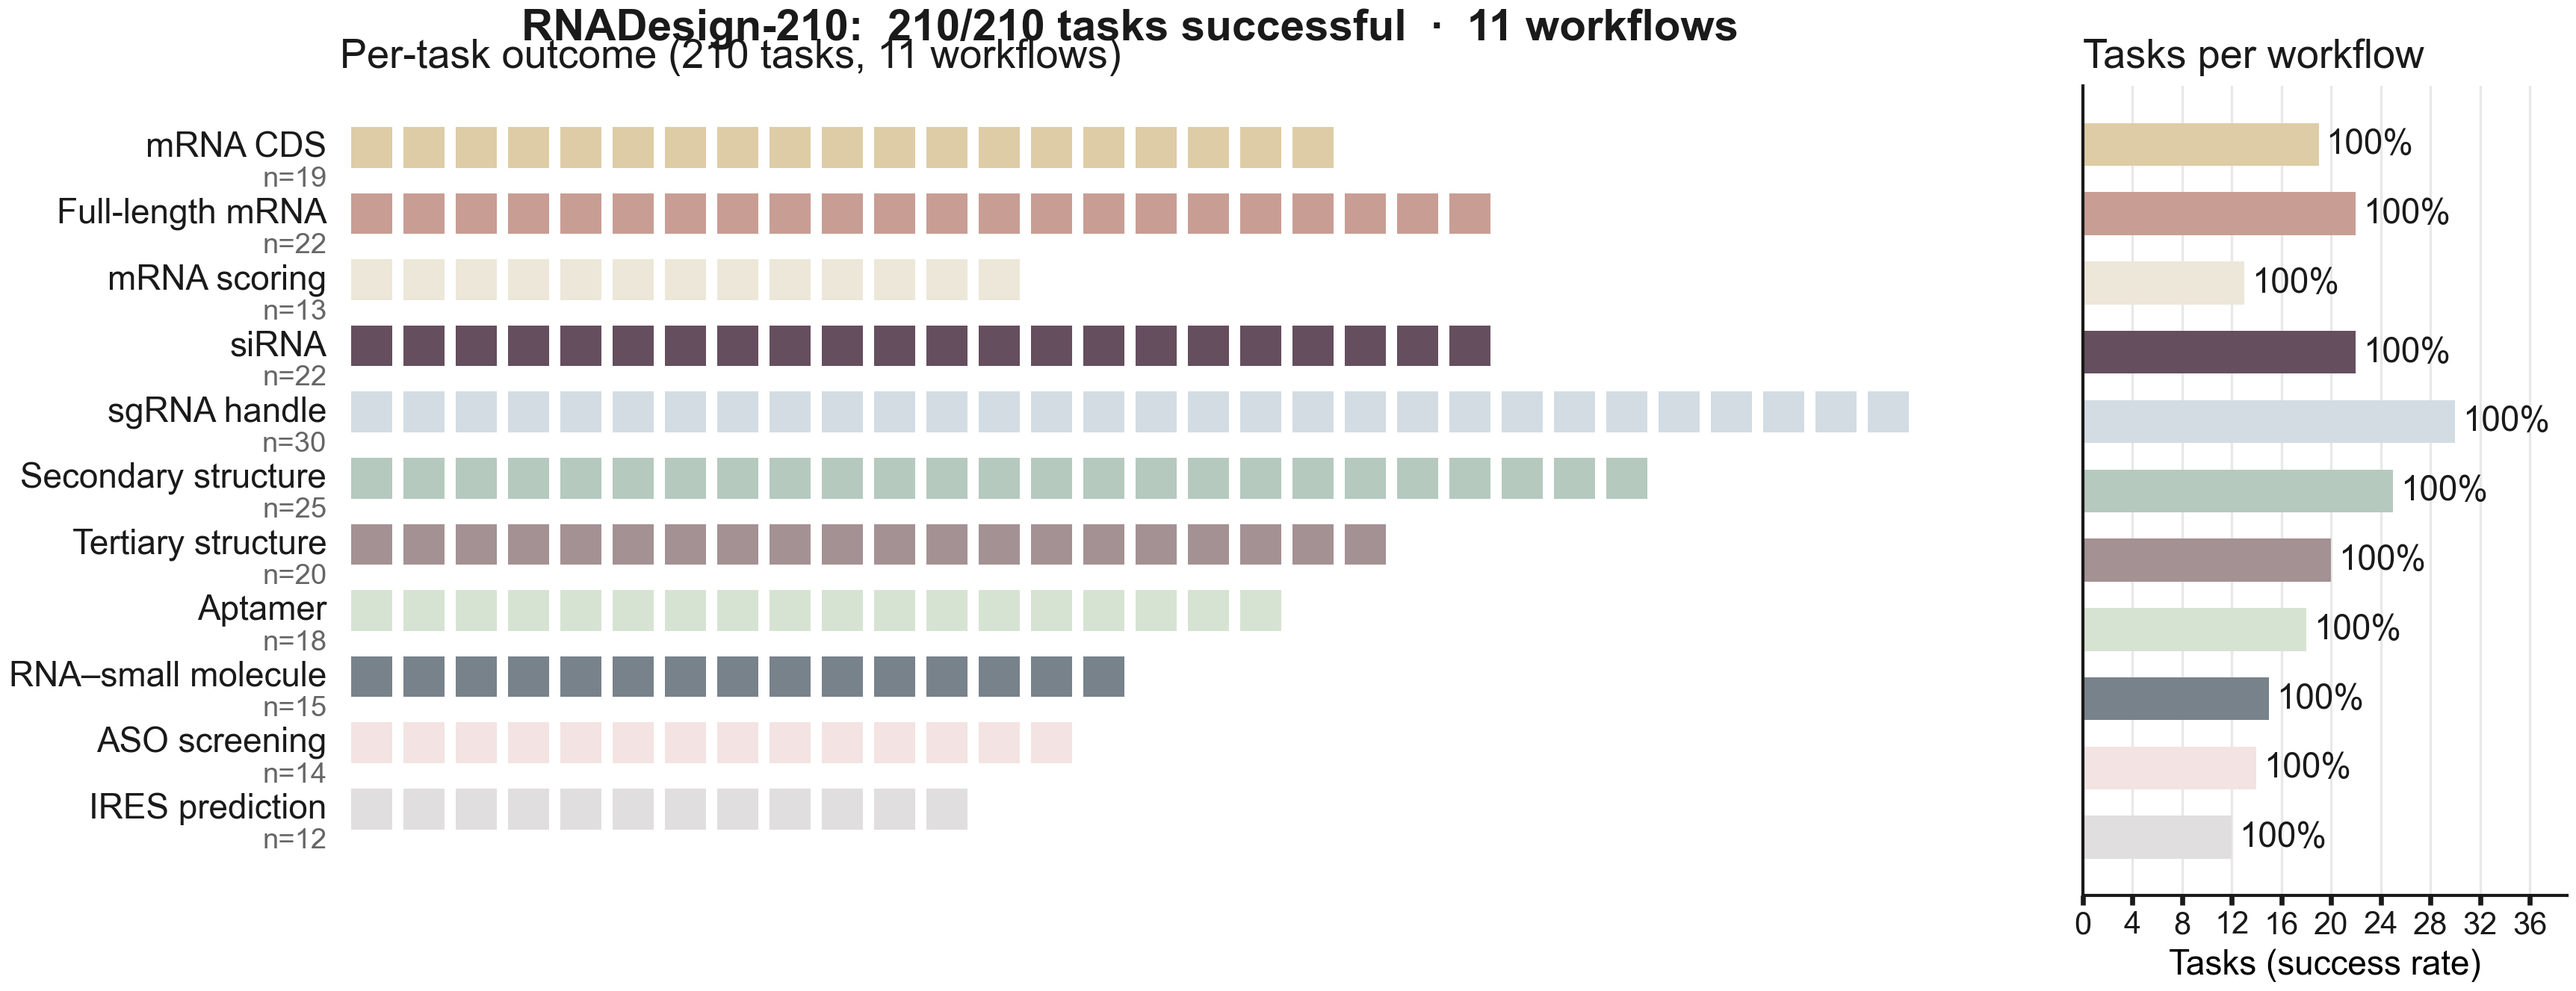
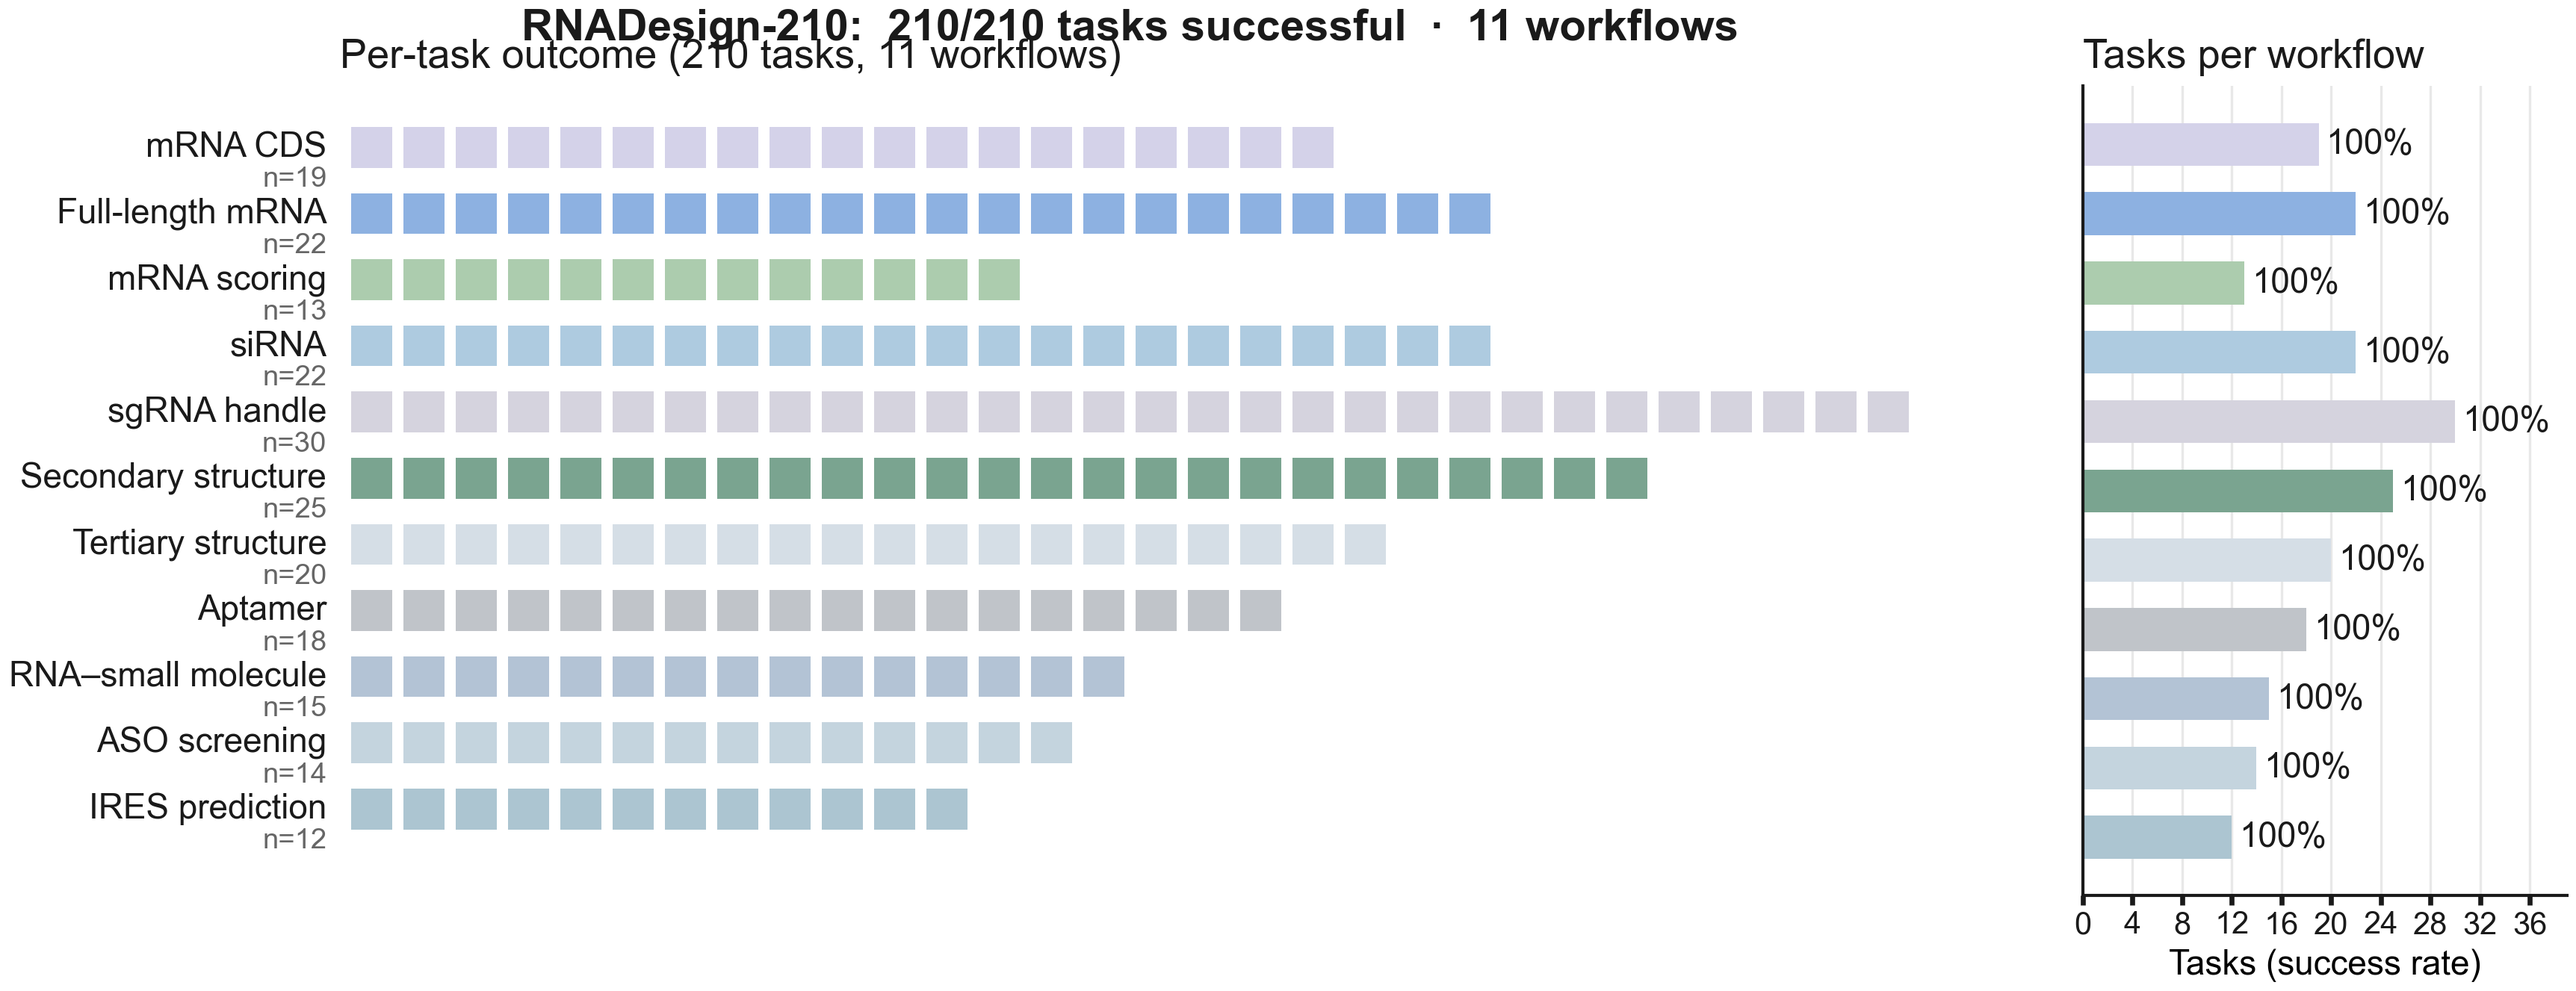
style(palette): unified figure palette rev 6 — user's cool pastel 12-colour set, Fig 2a re-rendered
Adopts the user's directly supplied cool pastel palette verbatim:
#d5dee6 #b3c3d5 #d4d2e9 #d5d3de #aecbe0 #dbe0eb #c0c4c9 #c4d4de #acccae
#acc5d1 #7aa490 #8db1e1. Eleven of the twelve identify the workflows
(#dbe0eb held out — nearest neighbour of #d5dee6); the sage (#7aa490) and
cornflower (#8db1e1) anchors break the carpet into three pale runs, and the
near-twin tones (#d5dee6/#dbe0eb, #b3c3d5/#acc5d1) never sit on adjacent
rows. Fig 2a re-rendered and pixel-verified row by row (11/11 exact hex
match); CHANGELOG / DECISIONS (z) / AGENTS updated to rev 6.

diff --git a/rna_agent_system/experiments/plots/palette.py b/rna_agent_system/experiments/plots/palette.py
@@ -1,43 +1,43 @@
-"""Unified experiment-figure palette (user-specified, 2026-08-25 reset; rev 5).
+"""Unified experiment-figure palette (user-specified, 2026-08-25 reset; rev 6).
 
 Every experiment figure draws its colours exclusively from PALETTE below.
-Rev 5: the user's muted Morandi twelve-colour set, supplied directly as hex
-codes. Eleven of the twelve identify the workflows (#EFE1D6 almond held out —
-nearest neighbour of #F3E3E3/#EDE7D9); the layout keeps the darkest tones
-(#654E5E plum, #78828B slate) as row separators so no two adjacent carpet
-rows share the same lightness band.
+Rev 6: the user's cool pastel twelve-colour set (blue-grey / lavender / green
+families), supplied directly as hex codes. Eleven of the twelve identify the
+workflows (#dbe0eb held out — nearest neighbour of #d5dee6); the two chromatic
+anchors (#7aa490 sage, #8db1e1 cornflower) break the pale runs, and the two
+near-twin pairs (#d5dee6/#dbe0eb, #b3c3d5/#acc5d1) are kept rows apart.
 """
 from __future__ import annotations
 
 # The mandated palette (twelve colours as supplied; used verbatim).
 PALETTE: list[str] = [
-    "#A49193",  # mauve grey
-    "#EDE7D9",  # ivory
-    "#D3DCE3",  # pale blue grey
-    "#B5C9BE",  # sage
-    "#F3E3E3",  # pale blush
-    "#DECCA6",  # wheat
-    "#E0DEDF",  # pale lavender grey
-    "#78828B",  # slate
-    "#D6E3D2",  # pale sage
-    "#C89D94",  # dusty rose
-    "#EFE1D6",  # almond (held out: nearest neighbour of ivory/blush)
-    "#654E5E",  # dark plum
+    "#d5dee6",  # pale blue grey
+    "#b3c3d5",  # light blue grey
+    "#d4d2e9",  # pale lavender
+    "#d5d3de",  # grey lavender
+    "#aecbe0",  # sky blue
+    "#dbe0eb",  # blue white (held out: nearest neighbour of #d5dee6)
+    "#c0c4c9",  # neutral grey
+    "#c4d4de",  # steel blue
+    "#acccae",  # pale green
+    "#acc5d1",  # teal grey
+    "#7aa490",  # sage green (anchor)
+    "#8db1e1",  # cornflower (anchor)
 ]
 
 PALETTE_BY_NAME: dict[str, str] = {
-    "mauve_grey": "#A49193",
-    "ivory": "#EDE7D9",
-    "pale_blue_grey": "#D3DCE3",
-    "sage": "#B5C9BE",
-    "pale_blush": "#F3E3E3",
-    "wheat": "#DECCA6",
-    "pale_lavender_grey": "#E0DEDF",
-    "slate": "#78828B",
-    "pale_sage": "#D6E3D2",
-    "dusty_rose": "#C89D94",
-    "almond": "#EFE1D6",
-    "dark_plum": "#654E5E",
+    "pale_blue_grey": "#d5dee6",
+    "light_blue_grey": "#b3c3d5",
+    "pale_lavender": "#d4d2e9",
+    "grey_lavender": "#d5d3de",
+    "sky_blue": "#aecbe0",
+    "blue_white": "#dbe0eb",
+    "neutral_grey": "#c0c4c9",
+    "steel_blue": "#c4d4de",
+    "pale_green": "#acccae",
+    "teal_grey": "#acc5d1",
+    "sage_green": "#7aa490",
+    "cornflower": "#8db1e1",
 }
 
 # Semantic accents reused across figures.
@@ -73,19 +73,19 @@ WORKFLOW_LABELS: dict[str, str] = {
     "ires_prediction": "IRES prediction",
 }
 
-# Workflow → palette colour (one distinct colour per workflow; the dark plum
-# and slate rows separate the pale-tone runs so adjacent rows never share a
-# lightness band).
+# Workflow → palette colour (one distinct colour per workflow; the sage and
+# cornflower anchors split the carpet into three pale runs, and near-twin
+# tones never sit on adjacent rows).
 WORKFLOW_COLORS: dict[str, str] = {
-    "mrna_cds_design": "#DECCA6",                 # wheat
-    "full_length_mrna_design": "#C89D94",         # dusty rose
-    "mrna_sequence_scoring": "#EDE7D9",           # ivory
-    "sirna_design": "#654E5E",                    # dark plum
-    "sgrna_design": "#D3DCE3",                    # pale blue grey
-    "rna_secondary_structure_design": "#B5C9BE",  # sage
-    "rna_tertiary_structure_design": "#A49193",   # mauve grey
-    "rna_aptamer_design": "#D6E3D2",              # pale sage
-    "rna_small_molecule_interaction": "#78828B",  # slate
-    "aso_target_screening": "#F3E3E3",            # pale blush
-    "ires_prediction": "#E0DEDF",                 # pale lavender grey
+    "mrna_cds_design": "#d4d2e9",                 # pale lavender
+    "full_length_mrna_design": "#8db1e1",         # cornflower (anchor)
+    "mrna_sequence_scoring": "#acccae",           # pale green
+    "sirna_design": "#aecbe0",                    # sky blue
+    "sgrna_design": "#d5d3de",                    # grey lavender
+    "rna_secondary_structure_design": "#7aa490",  # sage green (anchor)
+    "rna_tertiary_structure_design": "#d5dee6",   # pale blue grey
+    "rna_aptamer_design": "#c0c4c9",              # neutral grey
+    "rna_small_molecule_interaction": "#b3c3d5",  # light blue grey
+    "aso_target_screening": "#c4d4de",            # steel blue
+    "ires_prediction": "#acc5d1",                 # teal grey
 }

diff --git a/AGENTS.md b/AGENTS.md
@@ -5,7 +5,7 @@
 
 ## What's New
 
-- **Experiment-programme reset + Exp 1 done** (2026-08-25, DECISIONS (z), user-directed): the architecture moved too much since the legacy campaigns — **all paper experiments re-run against the frozen gated platform** with newly written drivers/figures; legacy campaign code, plots and results deleted (retained: SelfModel evidence chain `e1_*_v2`/`e7_*`/`rnasmol_boundary_panel*`/`e16_e17_e18/` + `build_default_self_model.py`, `codon_tables/`, `tool_inventory.json`, `MODEL_API_USAGE.md`, audit trail). **RNADesign-210 audited and repaired on disk** (`experiments/audit_rnadesign210.py` / `fix_rnadesign210.py`; manifest recounts 208→210, category taxonomy → basic/edge/full, IRES fixtures rebuilt on real poliovirus/EMCV anchors with mode-0 thresholds inside the oracle's measured regime, expected tool chains regrounded from live traces; re-audit 0 issues / 0 warnings). **Exp 1 (Fig 2a) executed: 210/210 across the 11 workflows** (`experiments/exp1_rnadesign210.py`, advisory arm, records under `experiments/results/exp1_rnadesign210/`; 4-task enforce probe documents the gated-refusal signatures). **Unified figure palette locked** (`experiments/plots/palette.py` rev 5 — the user's muted Morandi twelve-colour set; every experiment figure draws from it exclusively; Fig 2a at `experiments/plots/output/fig2a_coverage.{pdf,png}`). Experiment services are GPU-pinned to 0/1/2 by `experiments/exp1_bring_up_services.sh`.
+- **Experiment-programme reset + Exp 1 done** (2026-08-25, DECISIONS (z), user-directed): the architecture moved too much since the legacy campaigns — **all paper experiments re-run against the frozen gated platform** with newly written drivers/figures; legacy campaign code, plots and results deleted (retained: SelfModel evidence chain `e1_*_v2`/`e7_*`/`rnasmol_boundary_panel*`/`e16_e17_e18/` + `build_default_self_model.py`, `codon_tables/`, `tool_inventory.json`, `MODEL_API_USAGE.md`, audit trail). **RNADesign-210 audited and repaired on disk** (`experiments/audit_rnadesign210.py` / `fix_rnadesign210.py`; manifest recounts 208→210, category taxonomy → basic/edge/full, IRES fixtures rebuilt on real poliovirus/EMCV anchors with mode-0 thresholds inside the oracle's measured regime, expected tool chains regrounded from live traces; re-audit 0 issues / 0 warnings). **Exp 1 (Fig 2a) executed: 210/210 across the 11 workflows** (`experiments/exp1_rnadesign210.py`, advisory arm, records under `experiments/results/exp1_rnadesign210/`; 4-task enforce probe documents the gated-refusal signatures). **Unified figure palette locked** (`experiments/plots/palette.py` rev 6 — the user's cool pastel twelve-colour set; every experiment figure draws from it exclusively; Fig 2a at `experiments/plots/output/fig2a_coverage.{pdf,png}`). Experiment services are GPU-pinned to 0/1/2 by `experiments/exp1_bring_up_services.sh`.
 - **Paper-preparation documentation pass** (2026-08-25, doc-only): external-baseline arms **E21 (bare-LLM)** and **E22 (same-tools ReAct)** registered in `docs/DECISIONS.md` Part 4 (planned, not yet run — see Standing facts); all six `docs/PAPER_DRAFT.md` figure legends re-lettered to `docs/FIGURE_PLAN_V5.md` (the single source of truth for panel lettering); the first Results subsection split into a system-design Overview (Fig. 1) + RNADesign-210 results (Fig. 2); Supplementary Table S1 / Note S2 registered in the figure plan. Same-day **figure-type diversification pass** (doc-only): panel chart types across Figs. 1–6 diversified after a structured survey of eight agentic-science references — registered in `docs/FIGURE_PLAN_V5.md` and named in the `docs/PAPER_DRAFT.md` legends.
 - **Repo-wide simplification pass — code is the source of truth, old artifacts purged** (2026-08-22, user-directed; `docs/CHANGELOG.md` 2026-08-22 (i) + DECISIONS (y)): (1) fixed a real leak — every test-suite run wrote scratch files to the real `workspace/` root (141k files / 1.3 GB accumulated); `tests/conftest.py` now redirects all default workspace bases to a per-run `workspace/_tests` scratch (subprocess-safe via the new `RNADA_WORKSPACE_BASE` env override honoured by `WorkspaceManager`), verified zero new root files across a full suite run. (2) Demo tool `workflow_demo_echo` removed — **41 registered tools, all production** (`python -m agent_core.tool_inventory`). (3) Duplicated QualityAgent retry tests consolidated into one parametrized module; duplicated `Args/Returns` docstrings stripped from 39 `tools.py` wrappers (the Input-model `Field` descriptions are the single source). (4) Historical outputs purged: superseded figure generations (`plots/{paper,paper_v4,fig*_panels}`), archived experiment rounds, leaked workspace scratch and stale service-run intermediates — **repository 4.3 GB → 2.0 GB** (remaining bulk: 1.2 GB of required reference genomes + the retained audit trail); the CapGate audit trail (`workspace/audit/`, `workspace/sessions/`) and every `*_fresh_audit_*` evidence directory retained. Suite **635 passed, 1 skipped**; PA_006–PA_019 rerun green.
 - **Full-platform E2E fresh-data audit** (2026-08-22, DECISIONS (x); evidence `workspace/e2e_fresh_audit_2026-08-22/`): whole stack — all three Layer-6 entry points driving all 11 workflows on live services + live CapGate + live DeepSeek review on entirely fresh fetched data; 56 checks / 0 failures post-fix. Three defects fixed: opaque `sgrna_design` missing-seed failure (now a clear `ValueError`), `stream_form` raising on hard failure (now a final `runner` event), ViennaRNA inverse-fold accepting pseudoknot brackets (SIGSEGV behind a 503; now rejected up-front — normalise Rfam `SS_cons` upstream).

diff --git a/rna_agent_system/docs/CHANGELOG.md b/rna_agent_system/docs/CHANGELOG.md
@@ -48,10 +48,12 @@ bar summary) from the new **unified palette**
 colours; rev 2 = a 12-colour replacement (withdrawn same day); rev 3 = ten
 colours + two in-family extensions (withdrawn same day); rev 4 = twelve
 colours extracted from a user reference figure (withdrawn same day);
-**rev 5 (current)** = the user's muted Morandi twelve-colour set, supplied
-directly (`#A49193 #EDE7D9 #D3DCE3 #B5C9BE #F3E3E3 #DECCA6 #E0DEDF #78828B
-#D6E3D2 #C89D94 #EFE1D6 #654E5E`) — eleven identify the workflows (#EFE1D6
-almond held out), dark plum/slate rows separate the pale-tone runs.
+rev 5 = the user's muted Morandi twelve-colour set (withdrawn same day);
+**rev 6 (current)** = the user's cool pastel twelve-colour set, supplied
+directly (`#d5dee6 #b3c3d5 #d4d2e9 #d5d3de #aecbe0 #dbe0eb #c0c4c9 #c4d4de
+#acccae #acc5d1 #7aa490 #8db1e1`) — eleven identify the workflows (#dbe0eb
+held out), the sage/cornflower anchors break the pale runs and near-twin
+tones never sit on adjacent rows.
 
 ## 2026-08-25 — Paper figure-lettering unification (doc-only)
 

diff --git a/rna_agent_system/docs/DECISIONS.md b/rna_agent_system/docs/DECISIONS.md
@@ -312,10 +312,10 @@ a 4-task enforce probe documents the refusal signatures (IRESfinder
 (`experiments/results/exp1_rnadesign210/summary.json`; driver
 `experiments/exp1_rnadesign210.py`, services GPU-pinned 0/1/2 via
 `experiments/exp1_bring_up_services.sh`). **Unified figure palette** locked to the
-user's muted Morandi twelve-colour set (`experiments/plots/palette.py` rev 5:
-`#A49193 #EDE7D9 #D3DCE3 #B5C9BE #F3E3E3 #DECCA6 #E0DEDF #78828B #D6E3D2
-#C89D94 #EFE1D6 #654E5E`); the eleven workflows each own one distinct colour
-(#EFE1D6 held out), and every experiment figure draws from the palette
+user's cool pastel twelve-colour set (`experiments/plots/palette.py` rev 6:
+`#d5dee6 #b3c3d5 #d4d2e9 #d5d3de #aecbe0 #dbe0eb #c0c4c9 #c4d4de #acccae
+#acc5d1 #7aa490 #8db1e1`); the eleven workflows each own one distinct colour
+(#dbe0eb held out), and every experiment figure draws from the palette
 exclusively.
 
 ---
